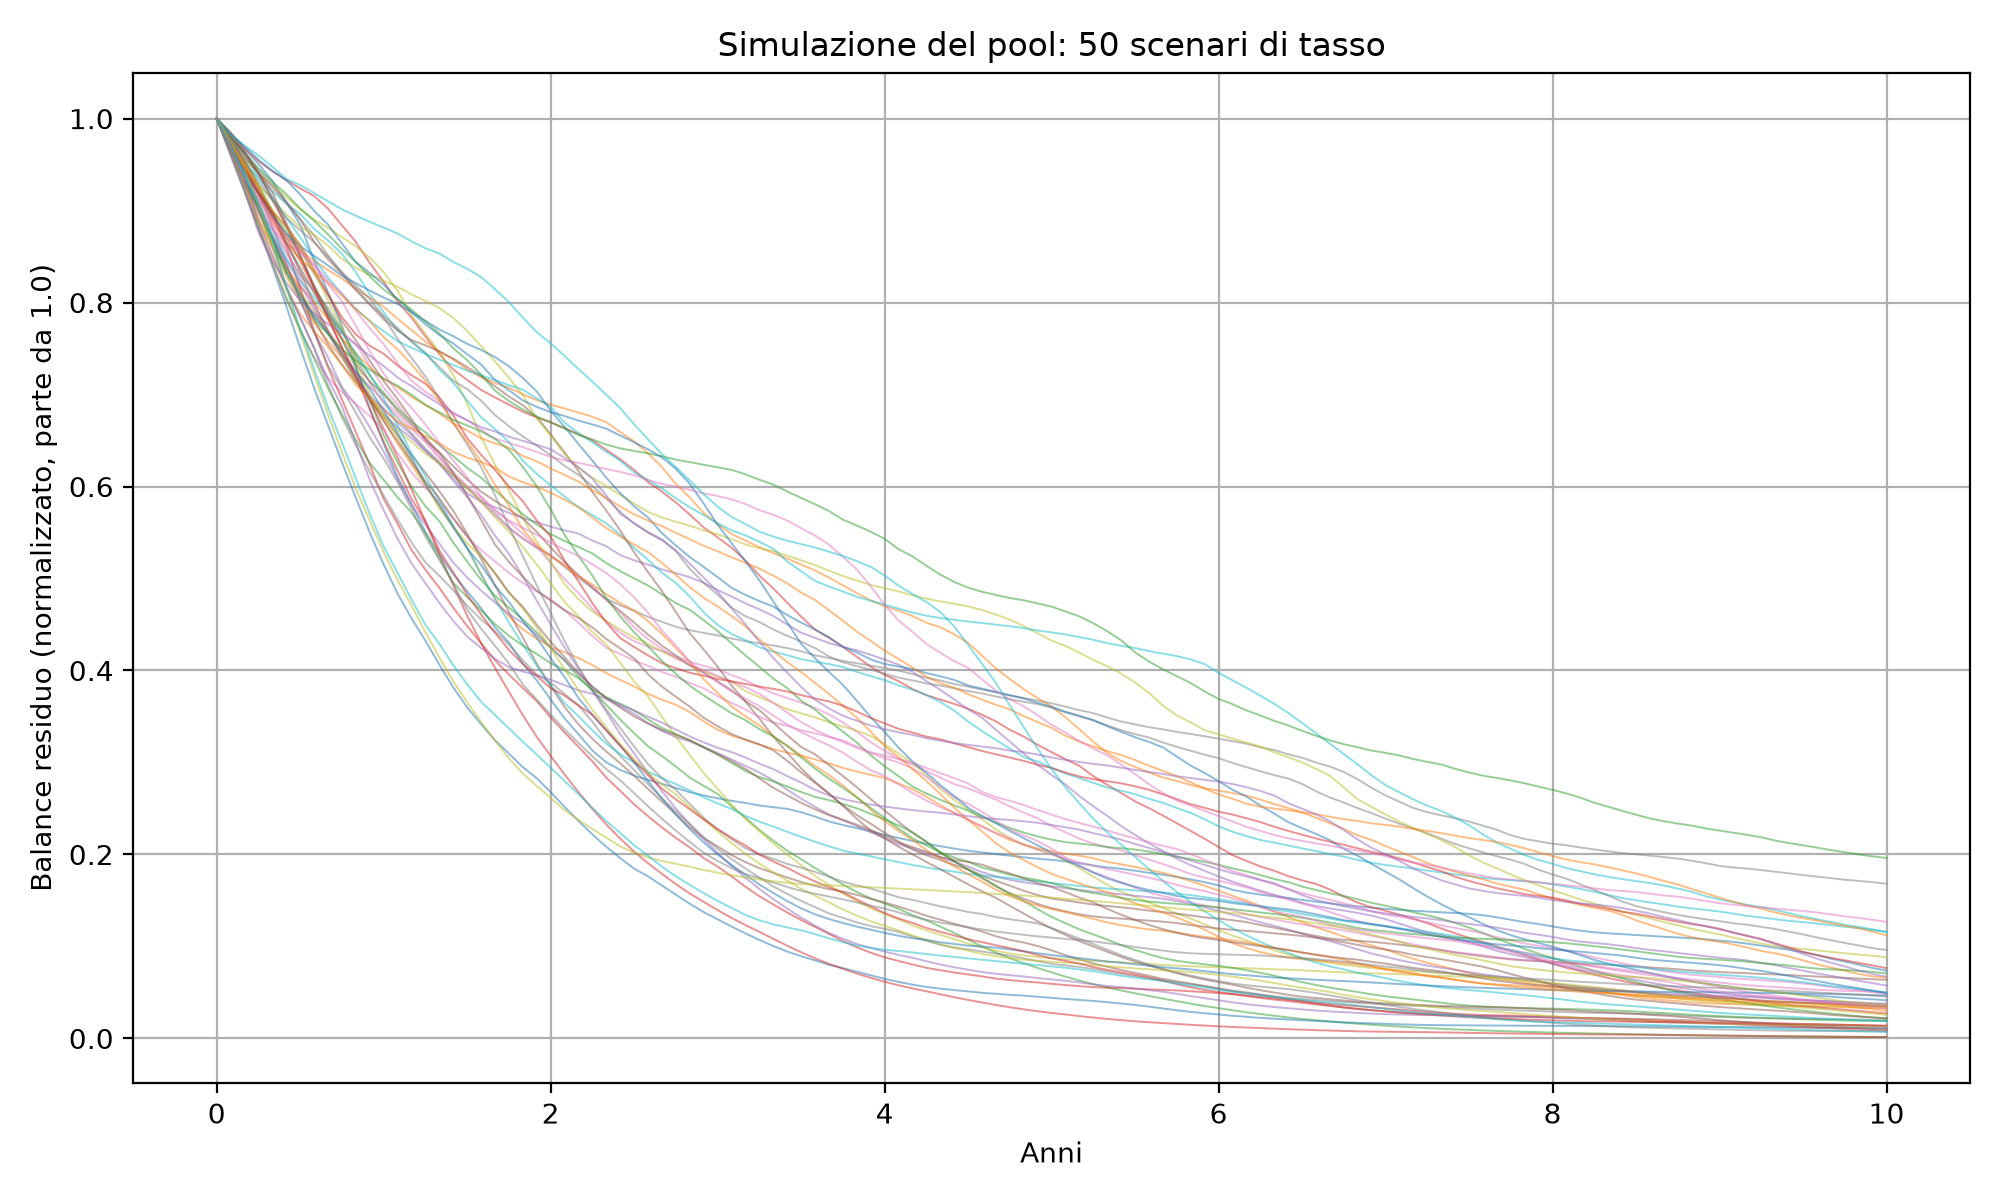
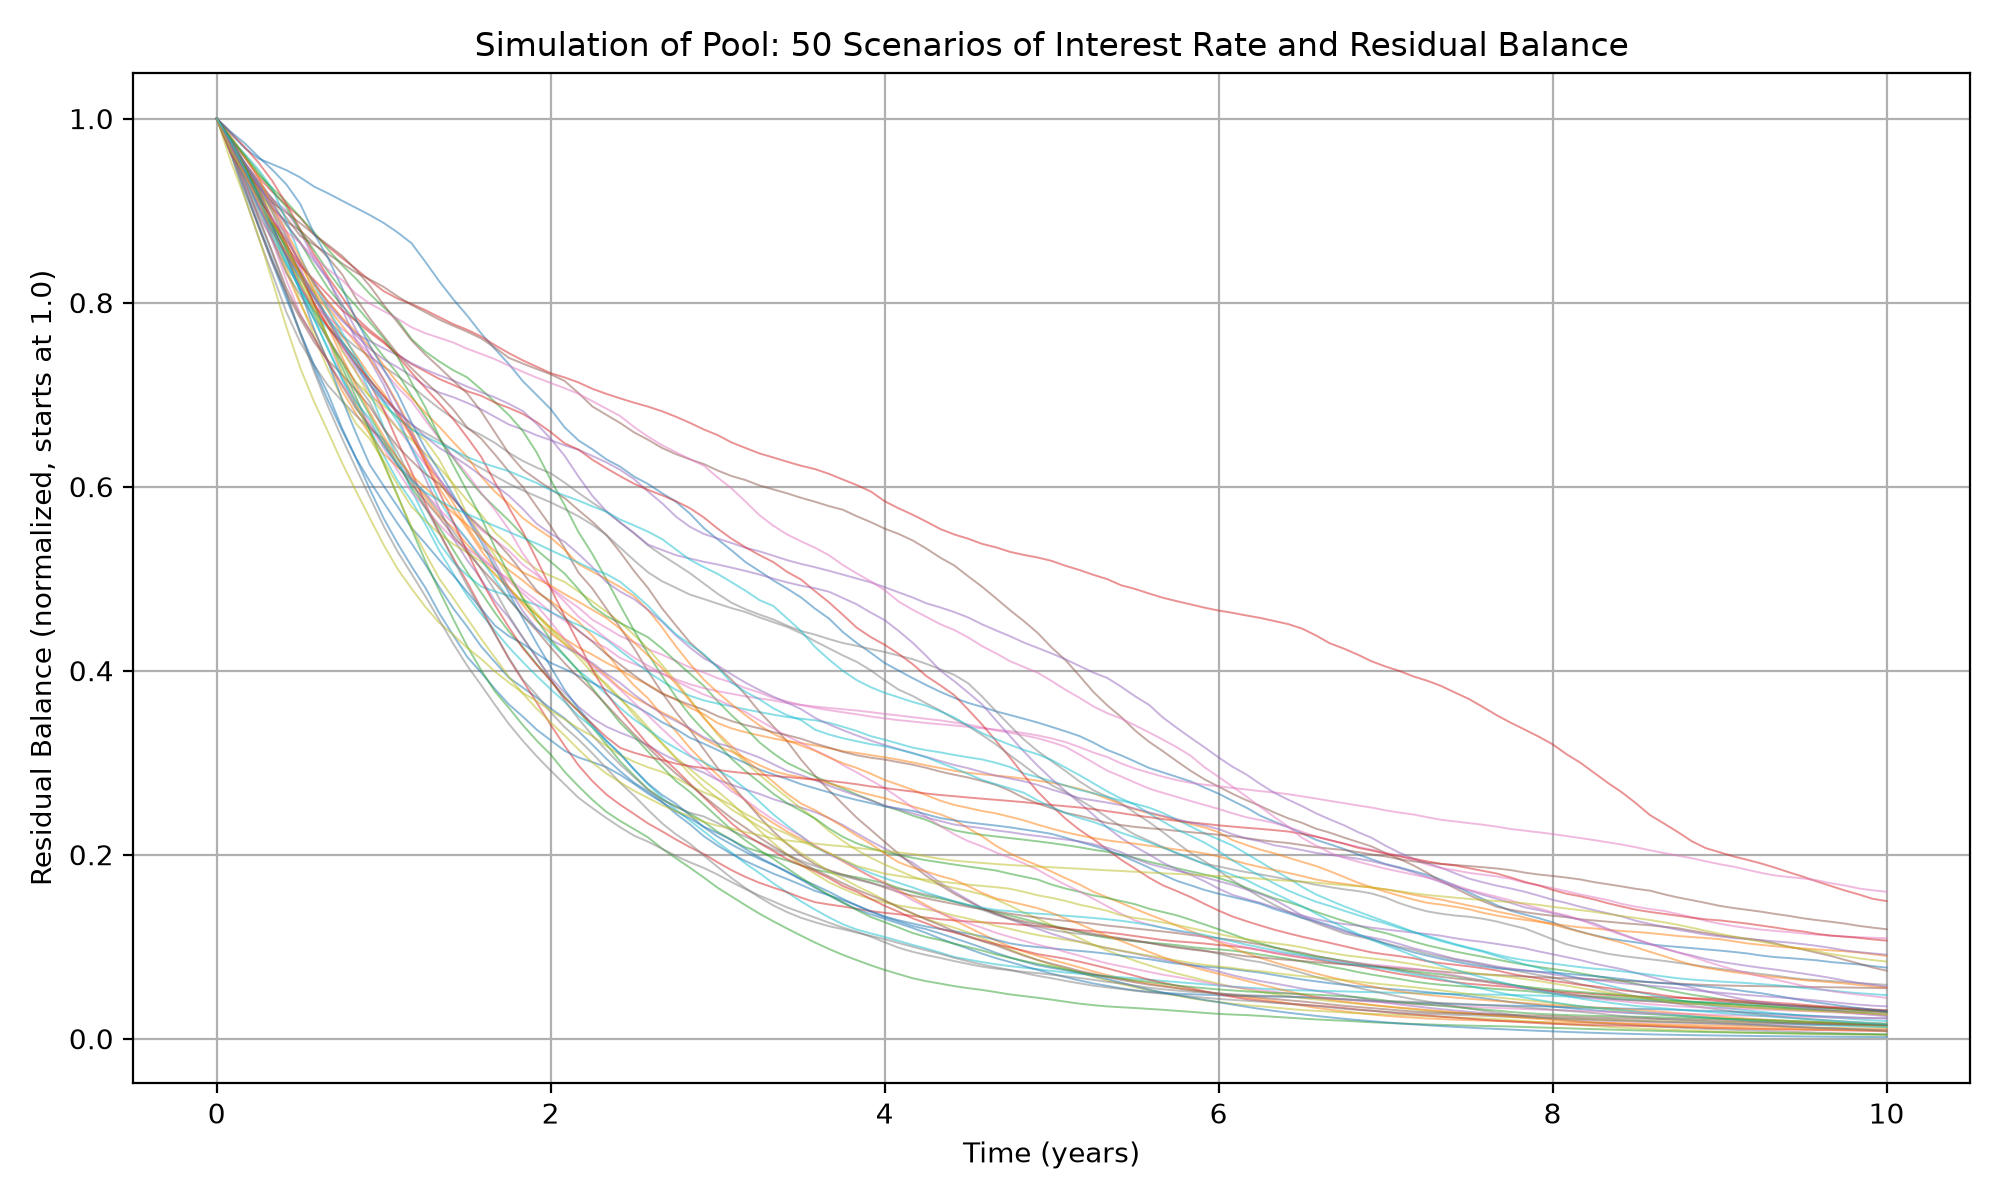
new functions, plots, README and requirements

diff --git a/src/pool_simulation.py b/src/pool_simulation.py
@@ -28,3 +28,29 @@ def simulate_pool_balance(rate_paths, note_rate, cdr=0.01, a=60):
         balance[:, t] = balance[:, t - 1] * (1 - smm) * (1 - mdr)  # update balance
 
     return balance
+
+def calculate_wal(balance, time_grid):
+    """
+    balance: matrix (n_paths, n_steps+1), output of simulate_pool_balance
+    time_grid: array (n_steps+1,), in years
+
+    Returns:
+        wal_per_path: array (n_paths,), the WAL of each individual scenario
+    """
+    # 1. calculate the principal cash flow for each month and each path:
+    #    cashflow[:, t] = balance[:, t-1] - balance[:, t]
+    #    (suggestion: you can do this in one line without a loop, with slicing:
+    #     balance[:, :-1] - balance[:, 1:] )
+
+    # 2. the times corresponding to each cash flow are time_grid[1:]
+    #    (the cash flow at step t "belongs" to time t, not to time t-1)
+
+    # 3. for each path, calculate:
+    #    wal = sum(t * cashflow_t for each t) / sum(cashflow_t for each t)
+    #    (suggestion: with numpy, it's a element-wise multiplication
+    #     between cashflow and time_grid[1:], then .sum(axis=1), divided by cashflow.sum(axis=1))
+
+    cashflow = balance[:, :-1] - balance[:, 1:]
+    wal_per_path = np.sum(time_grid[1:] * cashflow, axis=1) / np.sum(cashflow, axis=1)
+
+    return wal_per_path

diff --git a/src/plots.py b/src/plots.py
@@ -4,7 +4,7 @@ import numpy as np
 sys.path.append(os.path.join(os.path.dirname(__file__), ""))
 
 from rates import simulate_vasicek
-from pool_simulation import simulate_pool_balance
+from pool_simulation import calculate_wal, simulate_pool_balance
 import matplotlib
 matplotlib.use("Agg")
 from matplotlib import pyplot as plt
@@ -59,5 +59,21 @@ plt.grid()
 plt.tight_layout()
 
 output_path = os.path.join(output_dir, "pool_balance_plot.png")
+plt.savefig(output_path, dpi=200)
+print(f"Plot saved to: {output_path}")
+
+wal_per_path = calculate_wal(balance, time_grid)
+print(f"WAL media: {wal_per_path.mean():.2f} years")
+print(f"WAL 5° percentile: {np.percentile(wal_per_path, 5):.2f} years")
+print(f"WAL 95° percentile: {np.percentile(wal_per_path, 95):.2f} years")
+
+plt.figure(figsize=(8, 5))
+plt.hist(wal_per_path, bins=40)
+plt.xlabel("WAL (years)")
+plt.ylabel("Frequency")
+plt.title("Distribution of Weighted Average Life across 1000 Scenarios")
+plt.tight_layout()
+
+output_path = os.path.join(output_dir, "wal_distribution_plot.png")
 plt.savefig(output_path, dpi=200)
 print(f"Plot saved to: {output_path}")

diff --git a/README.md b/README.md
@@ -1,0 +1,126 @@
+# Stochastic MBS Pool Model
+
+Monte Carlo simulation of mortgage-backed securities (MBS) pool dynamics in Python. The project combines stochastic short-rate modeling, rate-driven prepayment, default assumptions, pool balance projection, and scenario-level Weighted Average Life (WAL) analysis.
+
+## Motivation
+
+This project grew out of my work as a Quantitative Analyst on a U.S. residential mortgage credit risk portfolio. It explores the pricing and structuring side of mortgage cashflows by modeling how a mortgage pool behaves under uncertain interest-rate paths and quantifying the prepayment risk faced by MBS investors.
+
+## Methodology
+
+### 1. Interest-rate simulation: Vasicek model
+
+The short rate follows the Vasicek stochastic differential equation:
+
+$$
+dr(t) = \kappa(\theta - r(t))\,dt + \sigma\,dW(t)
+$$
+
+The model is discretized with Euler-Maruyama:
+
+$$
+r(t+\Delta t) = r(t) + \kappa(\theta-r(t))\Delta t + \sigma\sqrt{\Delta t}\,Z,
+\quad Z \sim \mathcal{N}(0,1)
+$$
+
+### 2. Prepayment and default modeling
+
+Prepayment is represented by a Conditional Prepayment Rate (CPR) driven by the refinancing incentive:
+
+$$
+\text{incentive}(t) = \text{note\_rate} - r(t)
+$$
+
+The incentive is mapped to CPR with a logistic function bounded by `CPR_min` and `CPR_max`. Annual CPR is converted to the monthly SMM convention:
+
+$$
+\text{SMM} = 1 - (1 - \text{CPR})^{1/12}
+$$
+
+Default is modeled with a constant Conditional Default Rate (CDR), converted to a Monthly Default Rate (MDR) using the same annual-to-monthly convention.
+
+### 3. Pool balance dynamics
+
+For each simulated scenario, the normalized outstanding balance evolves as:
+
+$$
+\text{balance}(t) = \text{balance}(t-1)
+\times (1-\text{SMM}(t))
+\times (1-\text{MDR})
+$$
+
+The default and prepayment assumptions are applied across 1,000 simulated interest-rate paths.
+
+### 4. Weighted Average Life
+
+For each scenario, WAL summarizes the timing of principal returned to investors:
+
+$$
+\text{WAL} = \frac{\sum_t t \times \text{cashflow}(t)}{\sum_t \text{cashflow}(t)}
+$$
+
+The distribution of WAL across scenarios measures the uncertainty in the timing of principal repayment.
+
+## Project Structure
+
+```text
+stochastic-mbs-model/
+├── README.md
+├── requirements.txt
+├── src/
+│   ├── plots.py              # Generate simulations and save visualizations
+│   ├── rates.py              # Vasicek short-rate simulation
+│   ├── prepayment.py         # CPR/SMM/MDR functions
+│   └── pool_simulation.py    # Pool balance dynamics and WAL calculation
+└── output/                   # Generated PNG plots
+```
+
+## How to Run
+
+Create an environment and install the dependencies:
+
+```bash
+python -m venv .venv
+source .venv/bin/activate
+pip install -r requirements.txt
+```
+
+Generate the plots and WAL summary statistics:
+
+```bash
+python src/plots.py
+```
+
+The script writes the generated figures to `output/` and prints the mean, 5th percentile, and 95th percentile of WAL.
+
+## Example Results
+
+**Simulated interest-rate paths (Vasicek):**
+
+![Vasicek simulation](output/vasicek_model_plot.png)
+
+**Pool balance under 50 simulated rate scenarios:**
+
+![Pool balance](output/pool_balance_plot.png)
+
+**WAL distribution across 1,000 scenarios:**
+
+![WAL distribution](output/wal_distribution_plot.png)
+
+**CPR response to refinancing incentive:**
+
+![CPR response](output/cpr_from_incentive_plot.png)
+
+## Limitations and Next Steps
+
+- Scheduled amortization is not yet modeled; adding it would produce more realistic balance paths.
+- Default is currently represented by a constant CDR. A natural extension is a rate- or macro-dependent default model.
+- Sequential-pay tranche cashflow allocation is a planned next step toward a simplified structured-product model.
+
+## Tech Stack
+
+Python, NumPy, Matplotlib
+
+## Author
+
+Gaya Cocca - [LinkedIn](https://www.linkedin.com/in/gaya-cocca/)
